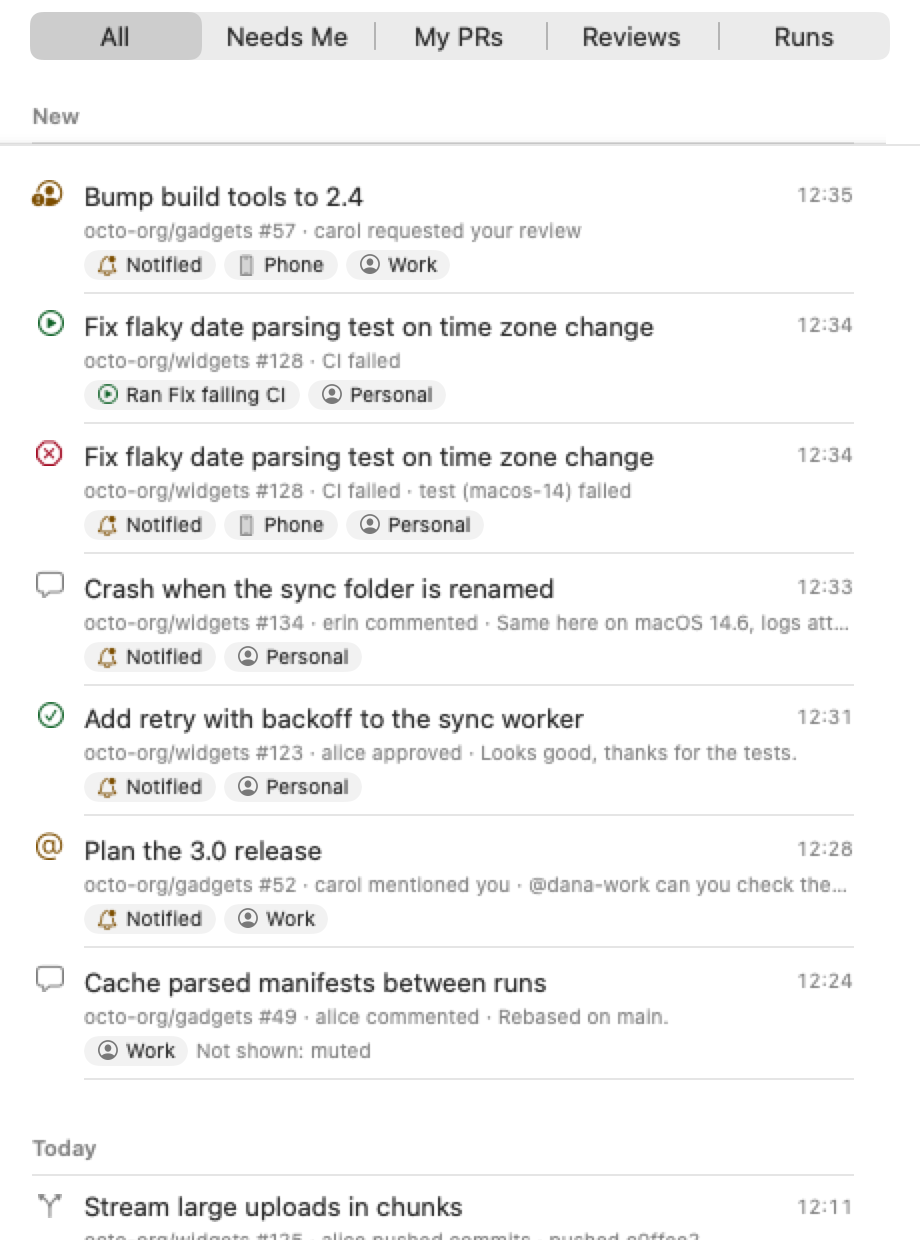
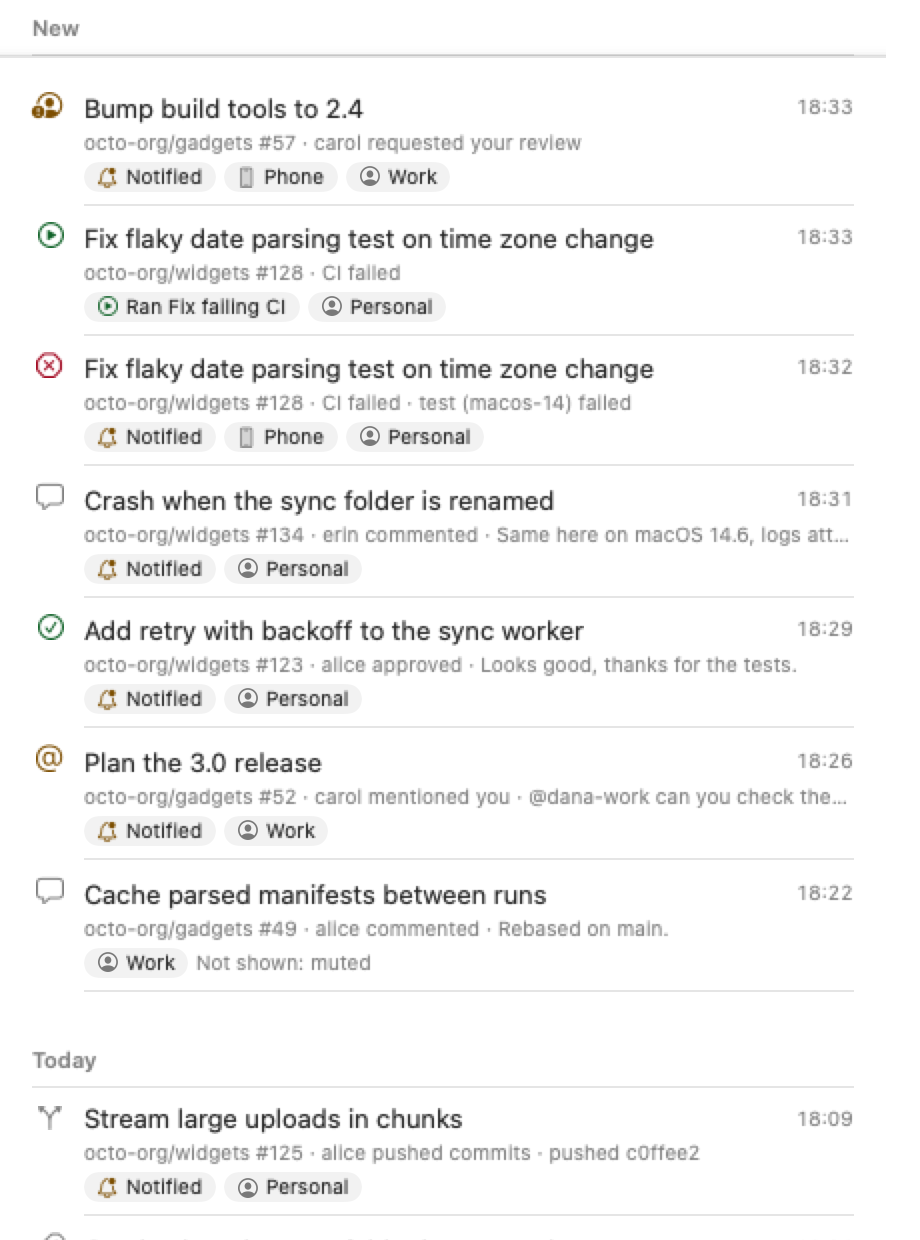
fix(activity): filter from a toolbar button, not a clipped pop-up above the list
The "Show" pop-up floated centred above the list and clipped to "A" in a
live window. Mail's pattern instead: a filter menu in the toolbar, its icon
filled while filtering; an empty filtered list says so and offers Show All.

diff --git a/Sources/PullPing/ActivityView.swift b/Sources/PullPing/ActivityView.swift
@@ -57,13 +57,21 @@ struct ActivityView: View {
                 }
             }
         }
-        .safeAreaInset(edge: .top) {
-            // Segments while the column is wide enough, else a menu (five segments clipped a 400 pt column).
-            ViewThatFits(in: .horizontal) {
-                filterPicker.pickerStyle(.segmented).labelsHidden()
-                filterPicker.pickerStyle(.menu).fixedSize()  // "Show: All": a lone "All" said nothing
+        .toolbar {
+            // Mail's filter button: filled while filtering. In the toolbar, not above the list: there a "Show" pop-up floated
+            // centred and clipped to "A" in a live window (five segments clipped a 400 pt column).
+            ToolbarItem {
+                Menu {
+                    Picker("Show", selection: $filter) {
+                        ForEach(ActivityFilter.allCases, id: \.self) { Text($0.rawValue).tag($0) }
+                    }
+                    .pickerStyle(.inline)
+                    .labelsHidden()
+                } label: {
+                    Label("Show: \(filter.rawValue)", systemImage: filter == .all ? "line.3.horizontal.decrease.circle" : "line.3.horizontal.decrease.circle.fill")
+                }
+                .help(filter == .all ? "Filter activity" : "Showing \(filter.rawValue)")
             }
-            .padding(.horizontal, 12).padding(.vertical, 6)
         }
         .onChange(of: selection) { _, i in store.selectedID = i.flatMap(pr)?.id }
         .contextMenu(forSelectionType: Int.self) { rows in
@@ -85,6 +93,12 @@ struct ActivityView: View {
             if days.isEmpty {
                 if !query.isEmpty {
                     ContentUnavailableView.search(text: query)
+                } else if filter != .all {  // the toolbar's filter is easy to miss: say it and offer the way back
+                    ContentUnavailableView {
+                        Label("No \(filter.rawValue) Activity", systemImage: "line.3.horizontal.decrease.circle")
+                    } actions: {
+                        Button("Show All") { filter = .all }
+                    }
                 } else {
                     ContentUnavailableView("No Activity", systemImage: "clock.arrow.circlepath",
                                            description: Text("Every event PullPing sees appears here, notified or not, with every automation run. Kept for \(store.settings.activityDays) days."))
@@ -100,12 +114,6 @@ struct ActivityView: View {
         // Seen once left: another row, or the window in the background.
         .onDisappear { store.activitySeenAt = Date() }
         .onReceive(NotificationCenter.default.publisher(for: NSWindow.didResignKeyNotification)) { _ in store.activitySeenAt = Date() }
-    }
-
-    private var filterPicker: some View {
-        Picker("Show", selection: $filter) {
-            ForEach(ActivityFilter.allCases, id: \.self) { Text($0.rawValue).tag($0) }
-        }
     }
 
     /// The row's pull request while PullPing still tracks it.

diff --git a/CHANGELOG.md b/CHANGELOG.md
@@ -15,7 +15,7 @@ Planned as 0.7.0.
 - **Lists sort by whose turn it is.** The sidebar (and the menu-bar panel's filter) now has **Needs Me**, **My Pull Requests**, **Reviews**, **Issues**, **Watching**, **Closed** and **Muted & Hidden**, plus Activity. My Pull Requests splits into **Your Turn** (changes requested, CI failed, conflicts, or approved and ready to merge), **Waiting on Others** (reviewers, CI, auto-merge) and **Drafts**; Reviews into **Needs Your Review**, **Team Requests** and **Reviewed**. Needs Me gathers everything waiting on you in one list, oldest first, and is what the menu-bar number counts. Search covers every row. The Done group is gone: merged and closed items are under Closed, open ones stay where they belong.
 - **Notifications only when something needs you.** A panel now appears only for a review or re-review asked of you, changes requested, CI failed or conflicts on your pull request, a mention, an assignment, new comments on your pull requests and issues, or your pull request becoming ready to merge. Merges, CI passing (unless it makes your pull request ready to merge), new commits, labels and the rest go to **Activity** without a notification. The panel's title says what is asked of you ("Re-review needed", "Ready to merge").
 - **Settings → Notifications** has one row per reason (Off, Banner or Alert) instead of two 19-row tables. Your earlier choices carry over: each reason takes the stronger of the old styles behind it, and anything you had turned off stays off. Phone pushes are unchanged and still chosen per event.
-- **Activity** is a read-only log: filters (All, Needs Me, My PRs, Reviews, Runs), a **New** section for entries since your last visit (and a dot on the sidebar row), chips for Notified, Phone and runs, and Copy Link in the row menu.
+- **Activity** is a read-only log: a filter button in the toolbar (All, Needs Me, My PRs, Reviews, Runs; filled while filtering), a **New** section for entries since your last visit (and a dot on the sidebar row), chips for Notified, Phone and runs, and Copy Link in the row menu.
 - Rows show one status chip that says whose turn it is: "Review requested by @carol", "Re-review · 2 pushes since your review", "Changes requested by @carol", "Approved · Ready to merge", "Waiting on @alice, @bob", "You approved · updated since"…
 - Review reminders also cover re-reviews, and team requests while their notification is on.
 - **What the agent is asked depends on what the pull request needs from you.** The default Handle with Agent prompt (and a new rule's) ends with the task of its scenario: review requested, re-review, changes requested, new comments or a mention, CI failed, conflicts, ready to merge, assigned, or anything else. The built-in tasks ask the agent to explain and propose, then wait for your OK (for a review: draft it, don't post it), instead of "work out what it needs and do it". A prompt you edited is kept as it is; add `{task}` to it to use the scenario's task.

diff --git a/README.md b/README.md
@@ -179,7 +179,7 @@ Link**. A newly tracked pull request's earlier history is not listed. Entries ar
 → Keep activity for**: 7, 30 or 90 days), at most 5000, in `~/Library/Application Support/PullPing/activity.jsonl`.
 `pullping activity [--since 2d] [--pr <ref>] [--json]` prints them, also while PullPing is not running.
 
-<img src="docs/screenshots/activity.png" alt="The Activity list: filters All, Needs Me, My PRs, Reviews and Runs; a New section, then today; each entry with its pull request, who did what, and chips such as Notified, Phone and Ran Fix failing CI" width="380">
+<img src="docs/screenshots/activity.png" alt="The Activity list: a New section, then today; each entry with its pull request, who did what, and chips such as Notified, Phone and Ran Fix failing CI" width="380">
 
 ## Agent automations
 
